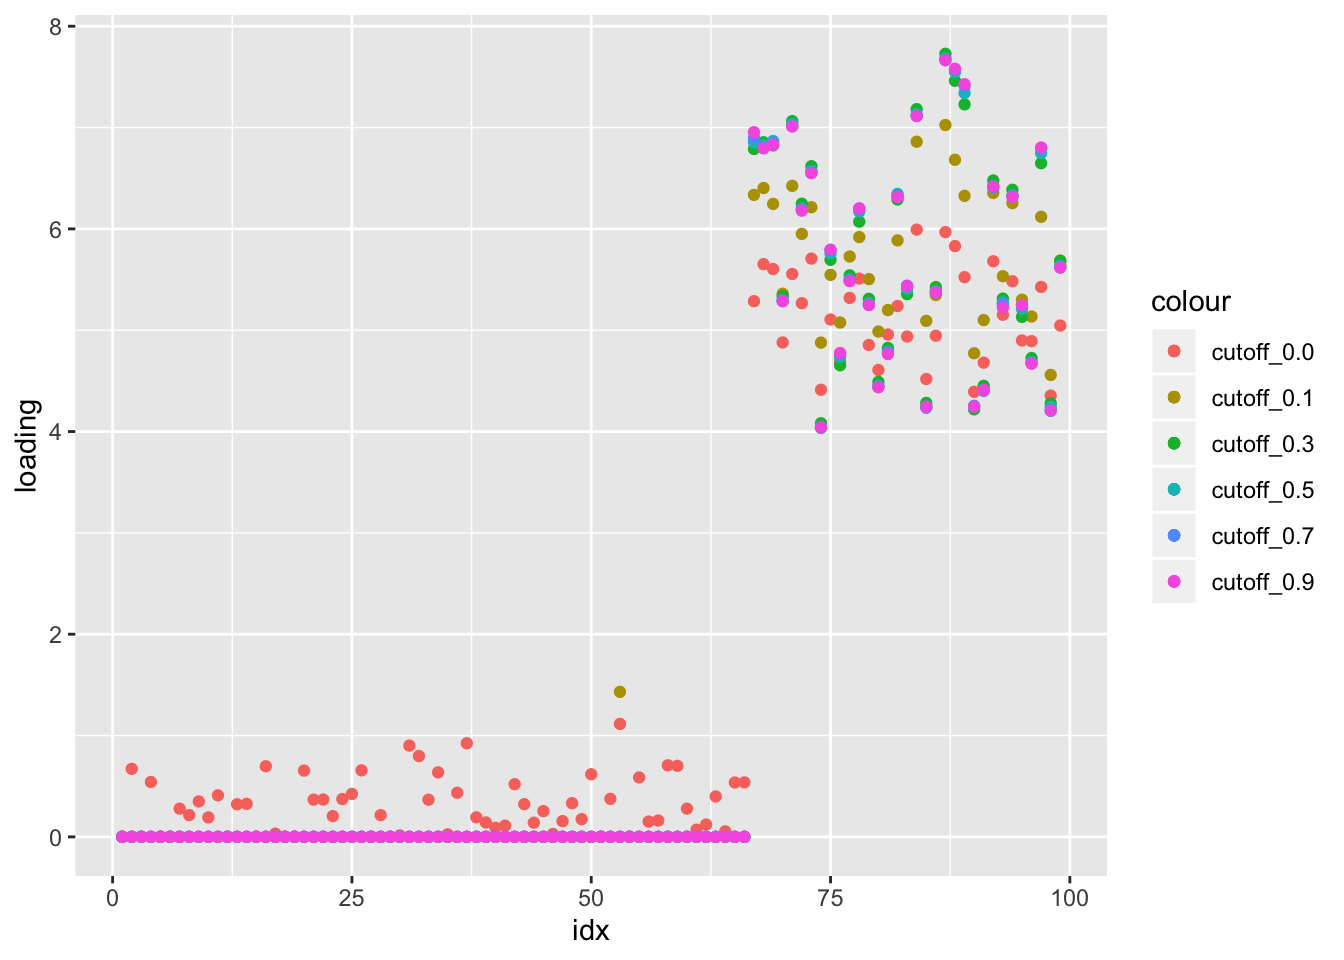
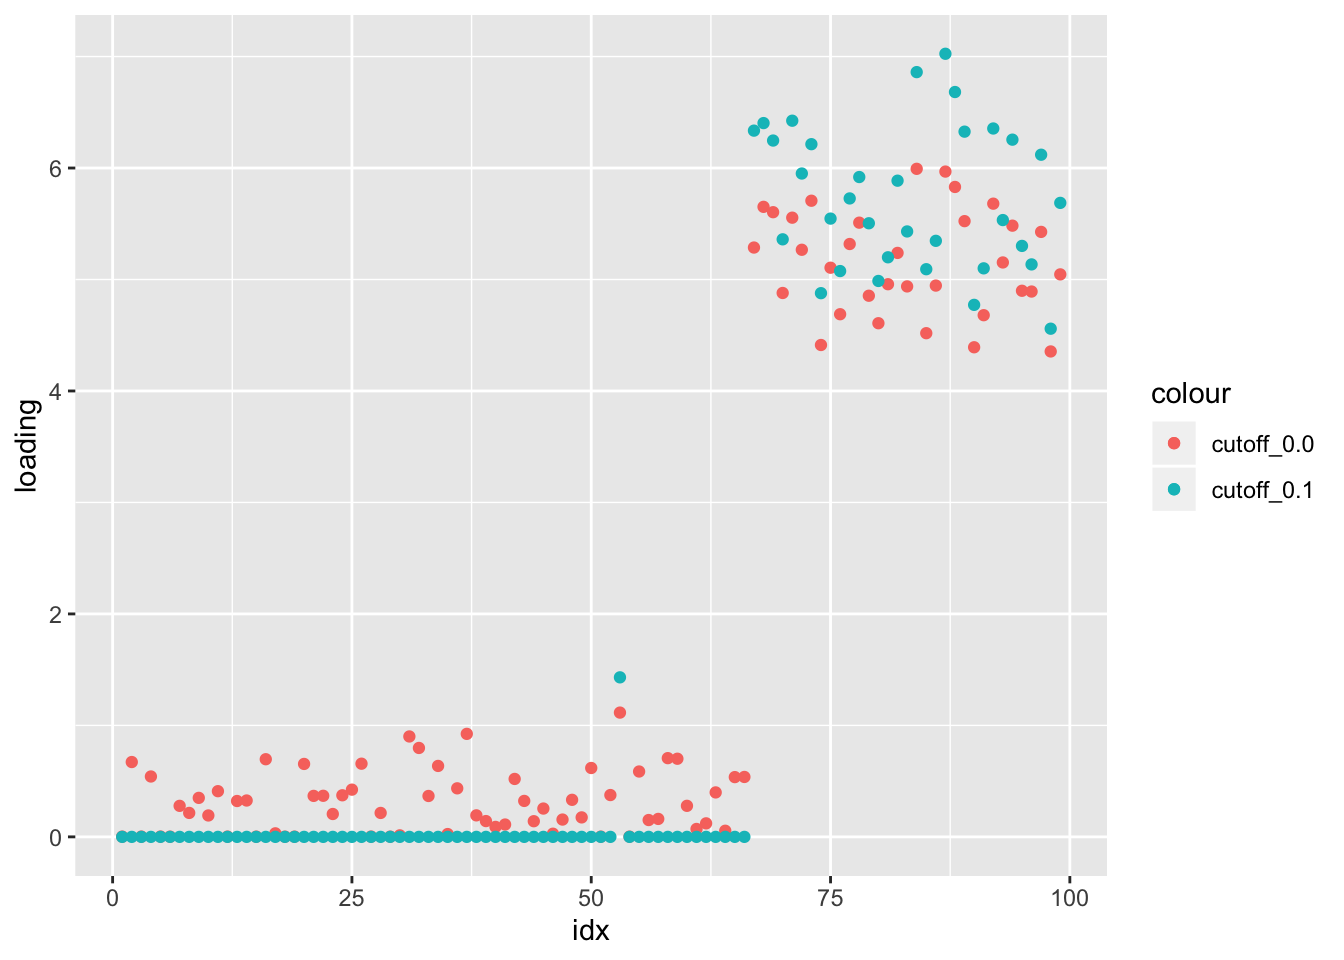
Build site.

diff --git a/docs/nmf_sparse3.html b/docs/nmf_sparse3.html
@@ -536,10 +536,10 @@ This reproducible <a href="http://rmarkdown.rstudio.com">R Markdown</a> analysis
 <div class="panel panel-default">
 <div class="panel-heading">
 <p class="panel-title">
-<a data-toggle="collapse" data-parent="#workflowr-checks" href="#strongRepositoryversionstrongahrefhttpsgithubcomzihao12ebpmfdemotree543dceb73d781161e87baa06cd6925d69d49b63btargetblank543dceba"> <span class="glyphicon glyphicon-ok text-success" aria-hidden="true"></span> <strong>Repository version:</strong> <a href="https://github.com/zihao12/ebpmf_demo/tree/543dceb73d781161e87baa06cd6925d69d49b63b" target="_blank">543dceb</a> </a>
+<a data-toggle="collapse" data-parent="#workflowr-checks" href="#strongRepositoryversionstrongahrefhttpsgithubcomzihao12ebpmfdemotree15c89829172c1c1be25f4f245d285777ae477df2targetblank15c8982a"> <span class="glyphicon glyphicon-ok text-success" aria-hidden="true"></span> <strong>Repository version:</strong> <a href="https://github.com/zihao12/ebpmf_demo/tree/15c89829172c1c1be25f4f245d285777ae477df2" target="_blank">15c8982</a> </a>
 </p>
 </div>
[2 lines of base64/hex data omitted]
 <div class="panel-body">
 <p>
 Great! You are using Git for version control. Tracking code development and connecting the code version to the results is critical for reproducibility. The version displayed above was the version of the Git repository at the time these results were generated. <br><br> Note that you need to be careful to ensure that all relevant files for the analysis have been committed to Git prior to generating the results (you can use <code>wflow_publish</code> or <code>wflow_git_commit</code>). workflowr only checks the R Markdown file, but you know if there are other scripts or data files that it depends on. Below is the status of the Git repository when the results were generated:
@@ -613,6 +613,40 @@ Message
 </tr>
 </thead>
 <tbody>
+<tr>
+<td>
+Rmd
+</td>
+<td>
+<a href="https://github.com/zihao12/ebpmf_demo/blob/15c89829172c1c1be25f4f245d285777ae477df2/analysis/nmf_sparse3.Rmd" target="_blank">15c8982</a>
+</td>
+<td>
+zihao12
+</td>
+<td>
+2019-11-03
+</td>
+<td>
+nmf_sparse3.Rmd with thresholding on z
+</td>
+</tr>
+<tr>
+<td>
+html
+</td>
+<td>
+<a href="https://rawcdn.githack.com/zihao12/ebpmf_demo/de67527ccb2d25a67ed7ace157a2da7cca5369ef/docs/nmf_sparse3.html" target="_blank">de67527</a>
+</td>
+<td>
+zihao12
+</td>
+<td>
+2019-11-03
+</td>
+<td>
+Build site.
+</td>
+</tr>
 <tr>
 <td>
 Rmd
@@ -1324,51 +1358,36 @@ for(rate in cutoff_rate){
   col_names = c(col_names, sprintf(&quot;cutoff_%.1f&quot;, rate))
 }
 
-maxiter.out = iter_eb
+# maxiter.out = iter_eb
+# 
+# summary_m = matrix(NA,nrow = 5, ncol = length(cutoff_rate))
+# rownames(summary_m) = c(&quot;RMSE&quot;, &quot;KL&quot;, &quot;JS&quot;, &quot;ELBO&quot;, &quot;loglike&quot;)
+# colnames(summary_m) = col_names
+# 
+# ELBO_m = matrix(NA,nrow = maxiter.out, ncol = length(cutoff_rate))
+# colnames(ELBO_m) = col_names
+# 
+# loadings = matrix(NA,nrow = nrow(X), ncol = length(cutoff_rate))
+# 
+# for(i in 1:length(cutoff_rate)){
+#   rate = cutoff_rate[i]
+#   threshold = rate*1/k
+#   fit_pg_threshold = ebpmf_point_gamma(X = X, K = k, qg = qg_from_lee, maxiter.out = maxiter.out, threshold = threshold)
+#   ELBO_m[, i] = fit_pg_threshold$ELBO
+#   lam_est = fit_pg_threshold$qg$qls_mean %*% t(fit_pg_threshold$qg$qfs_mean)
+#   summary_ = c(RMSE(lambda, lam_est), KL(lambda, lam_est), JS(lambda, lam_est), fit_pg_threshold$ELBO[maxiter.out], log_lik(X, lam_est))
+#   summary_m[,i] = summary_
+#   loadings[,i] = fit_pg_threshold$qg$qls_mean[,2]
+# }
 
-summary_m = matrix(NA,nrow = 5, ncol = length(cutoff_rate))
-rownames(summary_m) = c(&quot;RMSE&quot;, &quot;KL&quot;, &quot;JS&quot;, &quot;ELBO&quot;, &quot;loglike&quot;)
-colnames(summary_m) = col_names
 
-ELBO_m = matrix(NA,nrow = maxiter.out, ncol = length(cutoff_rate))
-colnames(ELBO_m) = col_names
+# saveRDS(ELBO_m, &quot;data/nmf_sparse3_elbo.Rds&quot;)
+# saveRDS(loadings, &quot;data/nmf_sparse3_loadings.Rds&quot;)
+# saveRDS(summary_m, &quot;data/nmf_sparse3_summary.Rds&quot;)
 
-loadings = matrix(NA,nrow = nrow(X), ncol = length(cutoff_rate))
-
-for(i in 1:length(cutoff_rate)){
-  rate = cutoff_rate[i]
-  threshold = rate*1/k
-  fit_pg_threshold = ebpmf_point_gamma(X = X, K = k, qg = qg_from_lee, maxiter.out = maxiter.out, threshold = threshold)
-  ELBO_m[, i] = fit_pg_threshold$ELBO
-  lam_est = fit_pg_threshold$qg$qls_mean %*% t(fit_pg_threshold$qg$qfs_mean)
-  summary_ = c(RMSE(lambda, lam_est), KL(lambda, lam_est), JS(lambda, lam_est), fit_pg_threshold$ELBO[maxiter.out], log_lik(X, lam_est))
-  summary_m[,i] = summary_
-  loadings[,i] = fit_pg_threshold$qg$qls_mean[,2]
-}</code></pre>
-<pre><code>Warning in (function (f, p, ..., hessian = FALSE, typsize = rep(1,
-length(p)), : NA/Inf replaced by maximum positive value
-
-Warning in (function (f, p, ..., hessian = FALSE, typsize = rep(1,
-length(p)), : NA/Inf replaced by maximum positive value</code></pre>
-<pre><code>Warning in (function (f, p, ..., hessian = FALSE, typsize = rep(1,
-length(p)), : NA/Inf replaced by maximum positive value</code></pre>
-<pre><code>Warning in (function (f, p, ..., hessian = FALSE, typsize = rep(1,
-length(p)), : NA/Inf replaced by maximum positive value</code></pre>
-<pre><code>Warning in (function (f, p, ..., hessian = FALSE, typsize = rep(1,
-length(p)), : NA/Inf replaced by maximum positive value</code></pre>
-<pre><code>Warning in (function (f, p, ..., hessian = FALSE, typsize = rep(1,
-length(p)), : NA/Inf replaced by maximum positive value</code></pre>
-<pre><code>Warning in (function (f, p, ..., hessian = FALSE, typsize = rep(1,
-length(p)), : NA/Inf replaced by maximum positive value</code></pre>
-<pre><code>Warning in (function (f, p, ..., hessian = FALSE, typsize = rep(1,
-length(p)), : NA/Inf replaced by maximum positive value</code></pre>
-<pre><code>Warning in (function (f, p, ..., hessian = FALSE, typsize = rep(1,
-length(p)), : NA/Inf replaced by maximum positive value</code></pre>
-<pre><code>Warning in (function (f, p, ..., hessian = FALSE, typsize = rep(1,
-length(p)), : NA/Inf replaced by maximum positive value</code></pre>
-<pre class="r"><code>saveRDS(ELBO_m, &quot;data/nmf_sparse3_elbo.Rds&quot;)
-saveRDS(loadings, &quot;data/nmf_sparse3_loadings.Rds&quot;)
-saveRDS(summary_m, &quot;data/nmf_sparse3_summary.Rds&quot;)</code></pre>
+ELBO_m  = readRDS(&quot;data/nmf_sparse3_elbo.Rds&quot;)
+loadings = readRDS(&quot;data/nmf_sparse3_loadings.Rds&quot;)
+summary_m = readRDS(&quot;data/nmf_sparse3_summary.Rds&quot;)</code></pre>
 <pre class="r"><code>print(summary_m, digits = 4)</code></pre>
 <pre><code>        cutoff_0.0 cutoff_0.1 cutoff_0.3 cutoff_0.5 cutoff_0.7 cutoff_0.9
 RMSE     5.579e-01  7.003e-01  9.657e-01  9.654e-01  9.653e-01      1.014
@@ -1388,6 +1407,43 @@ ggplot(df)+
   geom_point(aes(x = iter, y = cutoff_0.9, color = &quot;cutoff_0.9&quot;))+
   ylab(&quot;elbo&quot;)</code></pre>
 <p><img src="figure/nmf_sparse3.Rmd/unnamed-chunk-12-1.png" width="672" style="display: block; margin: auto;" /></p>
+<p>
+<button type="button" class="btn btn-default btn-xs btn-workflowr btn-workflowr-fig" data-toggle="collapse" data-target="#fig-unnamed-chunk-12-1">
+Past versions of unnamed-chunk-12-1.png
+</button>
+</p>
+<div id="fig-unnamed-chunk-12-1" class="collapse">
+<div class="table-responsive">
+<table class="table table-condensed table-hover">
+<thead>
+<tr>
+<th>
+Version
+</th>
+<th>
+Author
+</th>
+<th>
+Date
+</th>
+</tr>
+</thead>
+<tbody>
+<tr>
+<td>
+<a href="https://github.com/zihao12/ebpmf_demo/blob/de67527ccb2d25a67ed7ace157a2da7cca5369ef/docs/figure/nmf_sparse3.Rmd/unnamed-chunk-12-1.png" target="_blank">de67527</a>
+</td>
+<td>
+zihao12
+</td>
+<td>
+2019-11-03
+</td>
+</tr>
+</tbody>
+</table>
+</div>
+</div>
 <pre class="r"><code>df = data.frame(loadings)
 colnames(df) = col_names
 df[[&quot;idx&quot;]] = 1:nrow(df)
@@ -1395,12 +1451,49 @@ df[[&quot;idx&quot;]] = 1:nrow(df)
 ggplot(df)+
   geom_point(aes(x = idx, y = cutoff_0.0, color = &quot;cutoff_0.0&quot;))+
   geom_point(aes(x = idx, y = cutoff_0.1, color = &quot;cutoff_0.1&quot;))+
-  geom_point(aes(x = idx, y = cutoff_0.3, color = &quot;cutoff_0.3&quot;))+
-  geom_point(aes(x = idx, y = cutoff_0.5, color = &quot;cutoff_0.5&quot;))+
-  geom_point(aes(x = idx, y = cutoff_0.7, color = &quot;cutoff_0.7&quot;))+
-  geom_point(aes(x = idx, y = cutoff_0.9, color = &quot;cutoff_0.9&quot;))+
+  # geom_point(aes(x = idx, y = cutoff_0.3, color = &quot;cutoff_0.3&quot;))+
+  # geom_point(aes(x = idx, y = cutoff_0.5, color = &quot;cutoff_0.5&quot;))+
+  # geom_point(aes(x = idx, y = cutoff_0.7, color = &quot;cutoff_0.7&quot;))+
+  # geom_point(aes(x = idx, y = cutoff_0.9, color = &quot;cutoff_0.9&quot;))+
   ylab(&quot;loading&quot;)</code></pre>
 <p><img src="figure/nmf_sparse3.Rmd/unnamed-chunk-13-1.png" width="672" style="display: block; margin: auto;" /></p>
+<p>
+<button type="button" class="btn btn-default btn-xs btn-workflowr btn-workflowr-fig" data-toggle="collapse" data-target="#fig-unnamed-chunk-13-1">
+Past versions of unnamed-chunk-13-1.png
+</button>
+</p>
+<div id="fig-unnamed-chunk-13-1" class="collapse">
+<div class="table-responsive">
+<table class="table table-condensed table-hover">
+<thead>
+<tr>
+<th>
+Version
+</th>
+<th>
+Author
+</th>
+<th>
+Date
+</th>
+</tr>
+</thead>
+<tbody>
+<tr>
+<td>
+<a href="https://github.com/zihao12/ebpmf_demo/blob/de67527ccb2d25a67ed7ace157a2da7cca5369ef/docs/figure/nmf_sparse3.Rmd/unnamed-chunk-13-1.png" target="_blank">de67527</a>
+</td>
+<td>
+zihao12
+</td>
+<td>
+2019-11-03
+</td>
+</tr>
+</tbody>
+</table>
+</div>
+</div>
 <br>
 <p>
 <button type="button" class="btn btn-default btn-workflowr btn-workflowr-sessioninfo" data-toggle="collapse" data-target="#workflowr-sessioninfo" style="display: block;">
